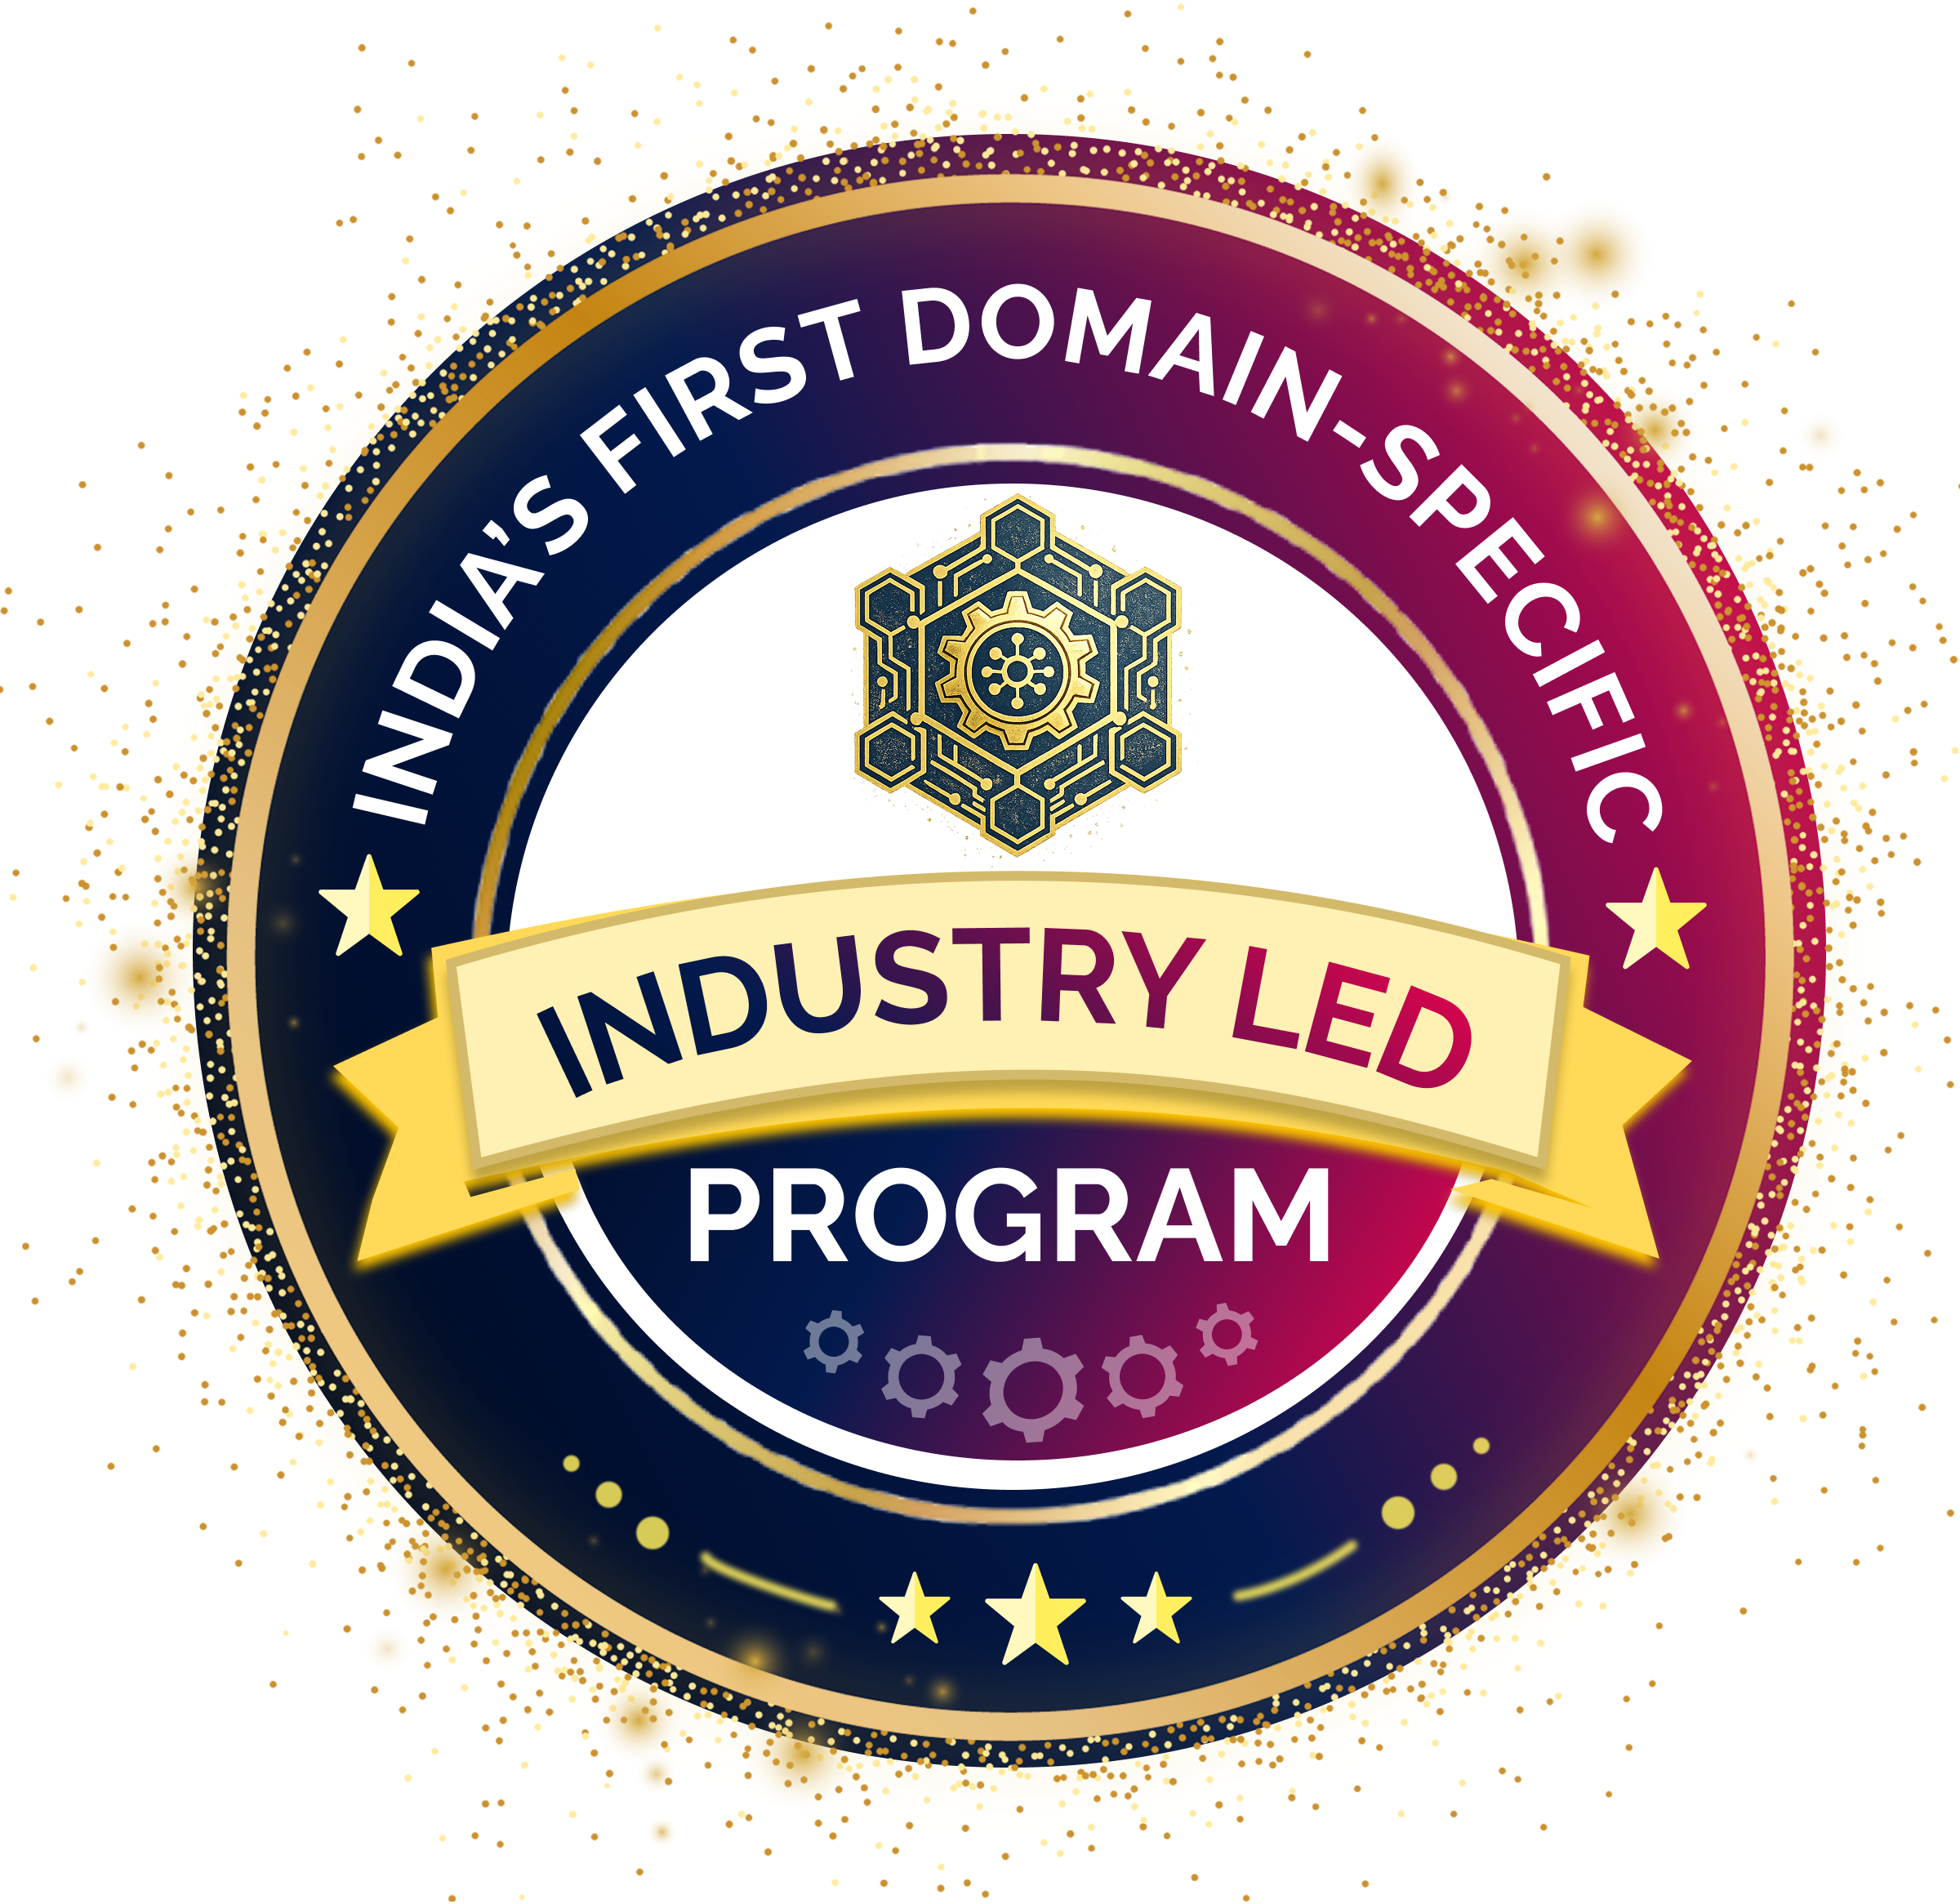
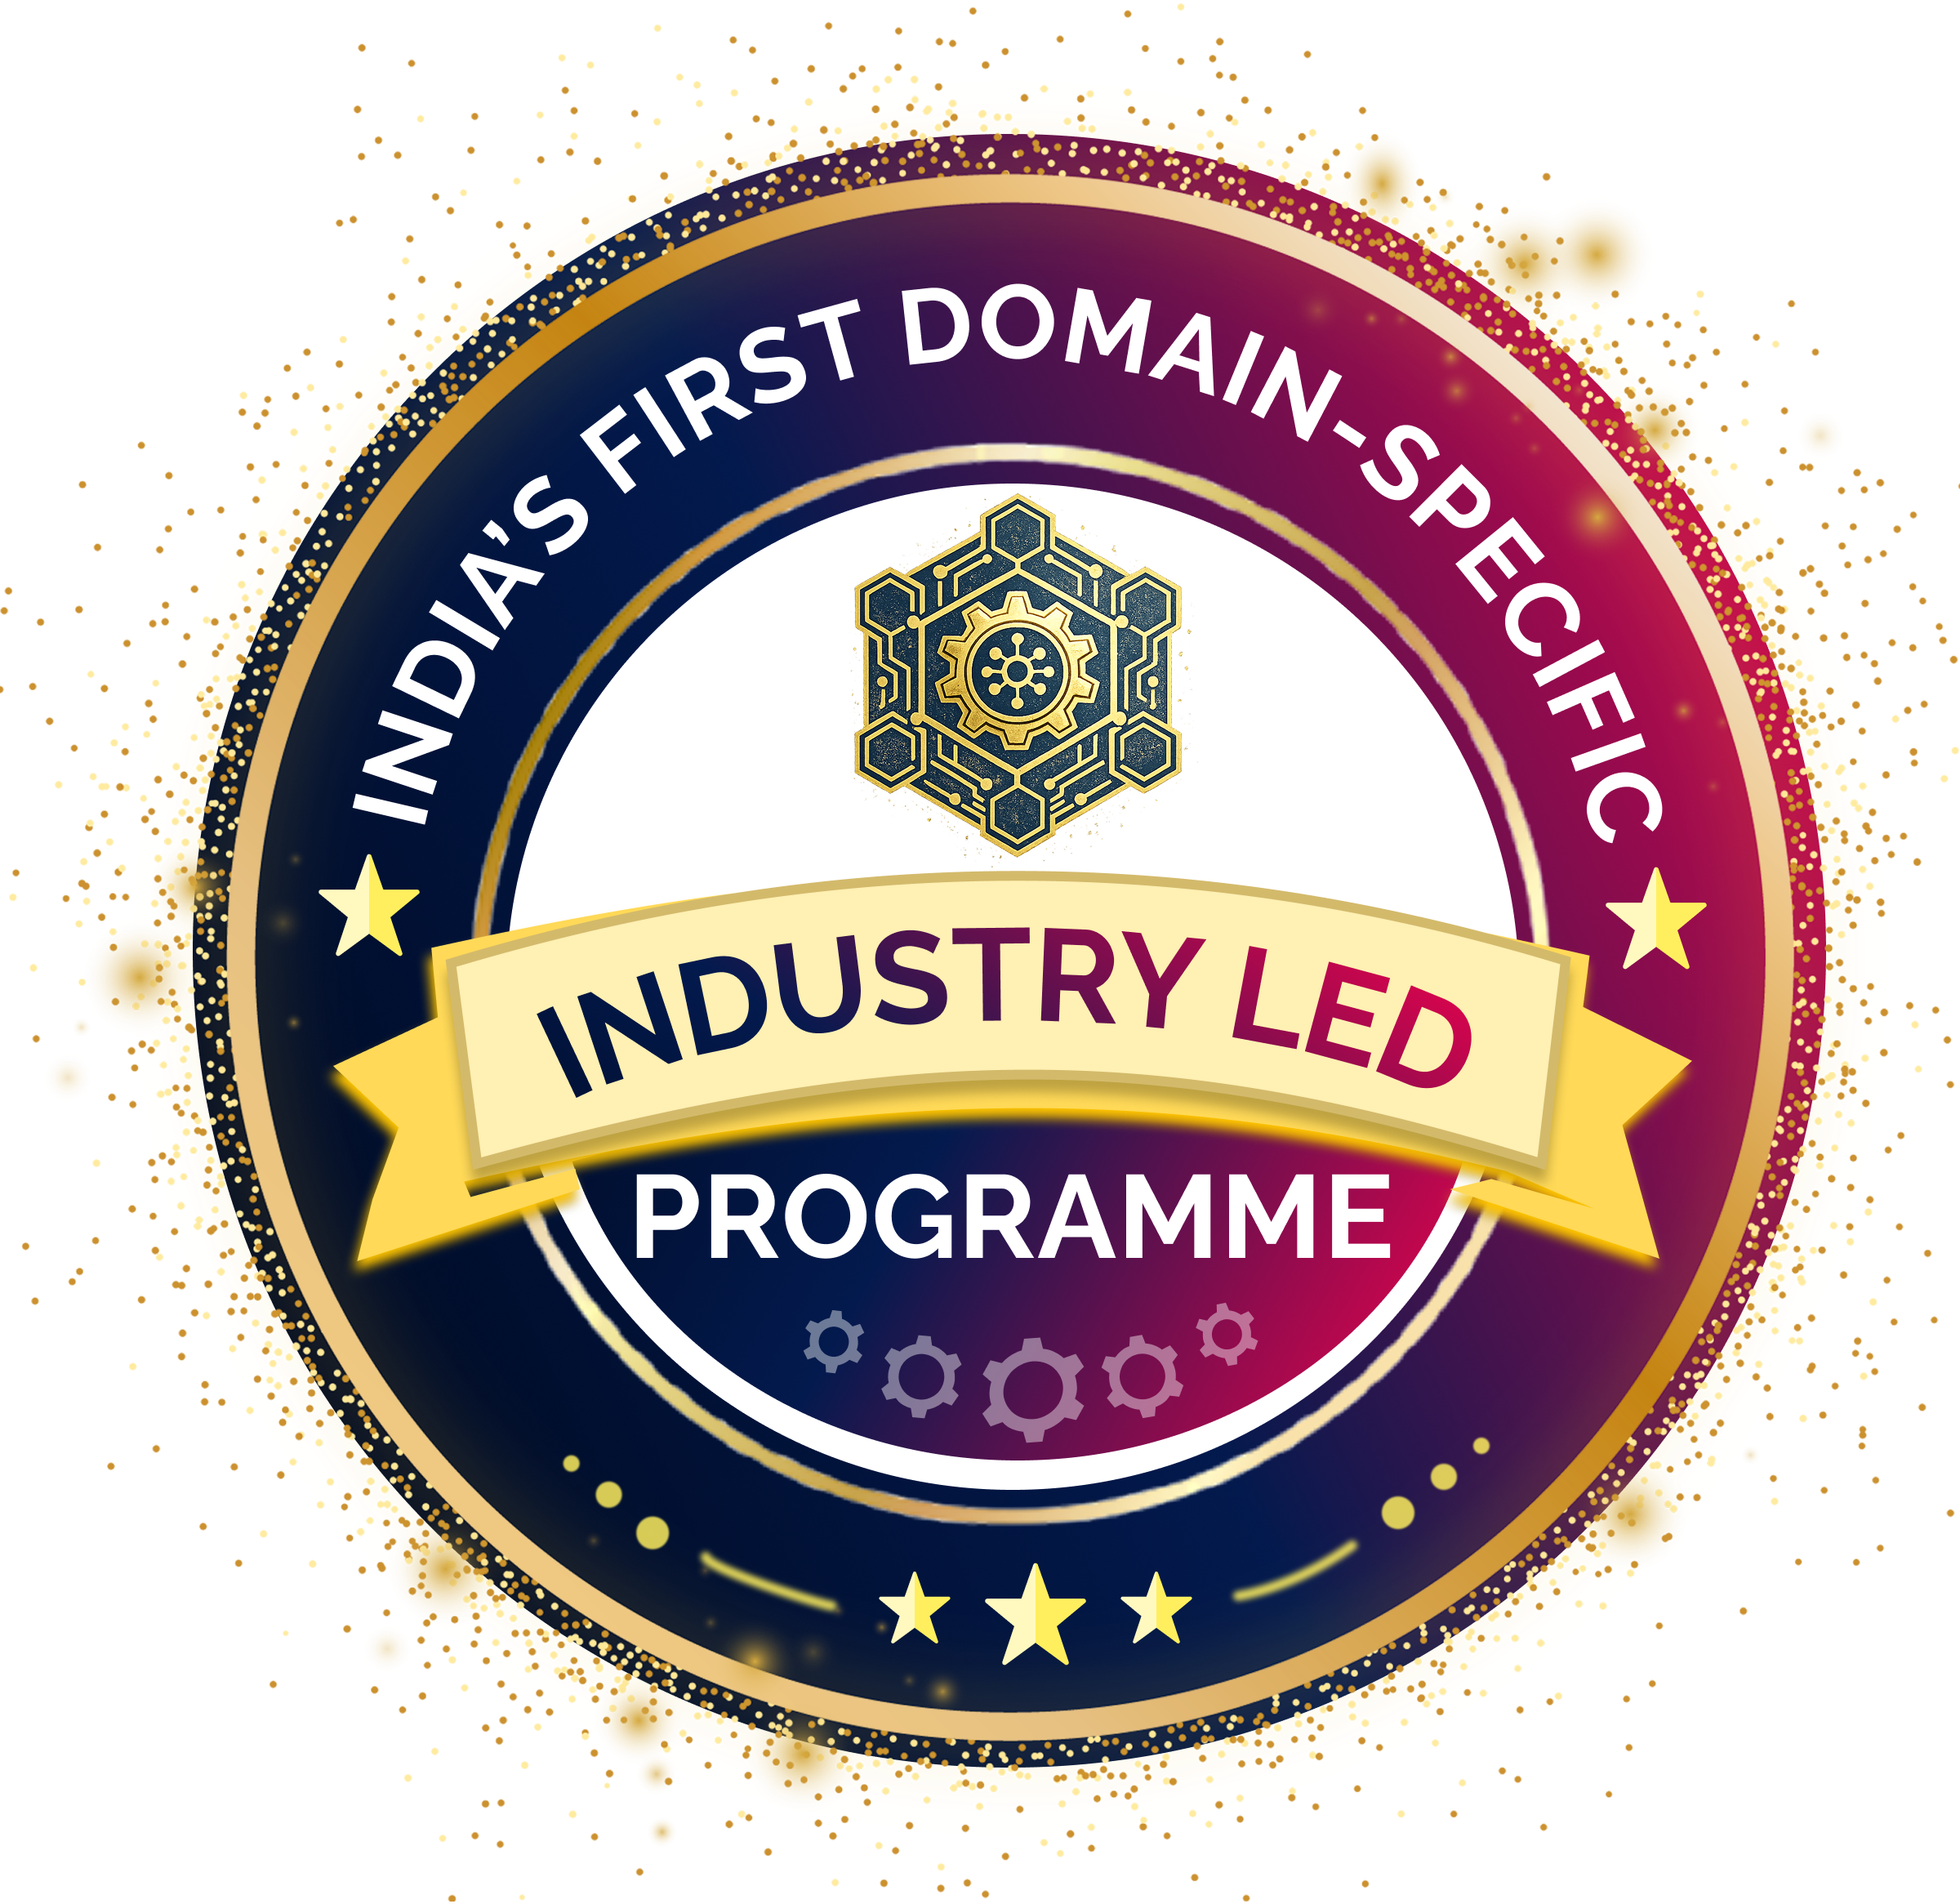
ok

Changed region(s): [[0.3125, 0.6178, 0.7188, 0.6795]]

diff --git a/src/components/Hero.jsx b/src/components/Hero.jsx
@@ -33,8 +33,23 @@ const HERO_CONTENT = {
 };
 
 const Hero = () => {
+  const pulseKeyframes = `
+    @keyframes pulseText {
+      0% {
+        text-shadow: 0 0 10px rgba(255, 255, 255, 0.7), 0 0 20px rgba(255, 255, 255, 0.7);
+      }
+      50% {
+        text-shadow: 0 0 20px rgba(255, 255, 255, 0.8), 0 0 30px rgba(255, 255, 255, 0.8);
+      }
+      100% {
+        text-shadow: 0 0 10px rgba(255, 255, 255, 0.7), 0 0 20px rgba(255, 255, 255, 0.7);
+      }
+    }
+  `;
+
   return (
     <>
+      <style>{pulseKeyframes}</style>
       {/* ═══════════════════════════════════════════
           MOBILE LAYOUT  (hidden on md and above)
       ═══════════════════════════════════════════ */}
@@ -51,10 +66,30 @@ const Hero = () => {
         {/* Content */}
         <div className="relative z-10 flex flex-col h-auto">
           {/* Navbar */}
-          <div className="flex items-center justify-between px-4 py-3 bg-[#000B2E]">
-            <img src={IUlogo} alt="IU Logo" className="h-13 object-contain" />
-            <div className="border border-white/20 bg-white/10 px-3 py-1 rounded-full text-white text-[10px] font-semibold tracking-wide">
-              {HERO_CONTENT.limitedSeats}
+          <div className="flex flex-col items-center py-3 px-4 bg-[#000B2E] w-full">
+            {/* Top Row - Logos */}
+            <div className="flex justify-between w-full items-center mb-2">
+              {/* Left Logo */}
+              <div className="flex-shrink-0">
+                <img
+                  src={IUlogo}
+                  alt="IU Logo"
+                  className="h-auto w-20"
+                />
+              </div>
+              <div className="border border-white/20 bg-white/10 px-3 py-1 rounded-full text-white text-[10px] font-semibold tracking-wide">
+                {HERO_CONTENT.limitedSeats}
+              </div>
+            </div>
+
+            {/* Center Text - Mobile */}
+            <div className="text-center w-full">
+              <h1 
+                className="text-white text-[15px] font-bold px-2 leading-tight" 
+                style={{ animation: 'pulseText 2s infinite' }}
+              >
+                SCHOOL OF ENGINEERING<br />(INDIRA UNIVERSITY)
+              </h1>
             </div>
           </div>
 
@@ -63,7 +98,7 @@ const Hero = () => {
             {/* Heading */}
             <h1 className="text-white font-bold leading-tight text-[18px] sm:text-2xl">
               {HERO_CONTENT.heading.map((line, index) => (
-                <span key={index} className="block">{line}</span>
+                <span key={index} className={`block ${index === 1 ? "text-[#1E62EC]" : "text-white"}`}>{line}</span>
               ))}
             </h1>
 
@@ -78,7 +113,7 @@ const Hero = () => {
             </p>
 
             {/* Admission tag */}
-            <div className="mt-4 inline-flex items-center self-center bg-[#C00433] text-white px-4 py-1.5 rounded-lg shadow-lg font-semibold text-xs">
+            <div className="mt-4 inline-flex items-center self-center bg-[#1E62EC] text-white px-4 py-1.5 rounded-lg shadow-lg font-semibold text-xs shadow-[0_4px_20px_rgba(30,98,236,0.3)]">
               {HERO_CONTENT.admissionTag}
             </div>
 
@@ -110,7 +145,7 @@ const Hero = () => {
                     <option value="btech-ai-ds">B.Tech (AI & Data Science)</option>
                     <option value="btech-cyber-cloud">B.Tech (Cyber Security & Cloud Technology)</option>
                   </select>
-                  <button className="w-full bg-[#E3003A] hover:bg-[#c00032] py-2 rounded-lg text-white font-bold text-[11px] tracking-wider active:scale-[0.98] transition-all">
+                  <button className="w-full bg-gradient-to-r from-[#C2163B] to-[#7B0D2B] hover:from-[#d61e47] hover:to-[#911235] py-2 rounded-lg text-white font-bold text-[11px] tracking-wider active:scale-[0.98] transition-all shadow-md">
                     Submit
                   </button>
                 </form>
@@ -118,22 +153,24 @@ const Hero = () => {
             </div>
 
             {/* Stats for Mobile (2x2 Grid) */}
-            <div className="grid grid-cols-2 gap-2 mt-4 w-full max-w-sm">
+            <div className="grid grid-cols-2 gap-3 mt-5 w-full max-w-sm border-t border-white/10 pt-4">
               {stats.map((item, index) => (
                 <div
                   key={index}
-                  className="flex items-center gap-2 p-2 rounded-xl bg-white/5 border border-white/10 backdrop-blur-sm"
+                  className="flex items-center gap-2"
                 >
-                  <img
-                    src={item.icon}
-                    alt=""
-                    className="w-6 h-6 object-contain flex-shrink-0"
-                  />
+                  <div className="flex items-center justify-center border border-[#1E62EC]/40 bg-[#1E62EC]/10 rounded-full w-8 h-8 flex-shrink-0">
+                    <img
+                      src={item.icon}
+                      alt=""
+                      className="w-4 h-4 object-contain"
+                    />
+                  </div>
                   <div className="flex flex-col text-left">
-                    <h3 className="text-[#FF0700] text-xs font-extrabold leading-none whitespace-nowrap">
+                    <h3 className="text-white text-xs font-extrabold leading-none whitespace-nowrap">
                       {item.title}
                     </h3>
-                    <p className="text-white/80 text-[8px] leading-tight mt-0.5 max-w-[100px]">
+                    <p className="text-white/70 text-[8px] leading-tight mt-0.5 max-w-[90px]">
                       {item.subtitle}
                     </p>
                   </div>
@@ -160,13 +197,28 @@ const Hero = () => {
         {/* Main Content */}
         <div className="relative z-10 min-h-screen flex flex-col">
           {/* Navbar */}
-          <div className="w-full flex items-center justify-between px-5 md:px-10 py-4 md:py-5 bg-[#000B2E]">
-            <img
-              src={IUlogo}
-              alt="IU Logo"
-              className="h-18 md:h-22 object-contain"
-            />
-            <div className="border border-white/20 bg-white/10 px-4 py-1.5 rounded-full text-white text-xs md:text-sm font-semibold">
+          <div className="w-full flex items-center justify-between px-4 md:px-8 lg:px-16 py-3 md:py-4 bg-[#000B2E]">
+            {/* LEFT LOGO */}
+            <div className="flex-shrink-0">
+              <img
+                src={IUlogo}
+                alt="IU Logo"
+                className="h-auto w-24 md:w-28 lg:w-36 xl:w-42"
+              />
+            </div>
+
+            {/* CENTER TEXT */}
+            <div className="flex-grow flex items-center justify-center text-center px-2 md:px-4">
+              <h1 
+                className="text-white text-base md:text-lg lg:text-2xl xl:text-3xl font-bold whitespace-nowrap"
+                style={{ animation: 'pulseText 2s infinite' }}
+              >
+                SCHOOL OF ENGINEERING (INDIRA UNIVERSITY)
+              </h1>
+            </div>
+
+            {/* RIGHT BUTTON/SEATS */}
+            <div className="flex-shrink-0 border border-white/20 bg-white/10 px-4 py-1.5 rounded-full text-white text-xs md:text-sm font-semibold">
               {HERO_CONTENT.limitedSeats}
             </div>
           </div>
@@ -180,7 +232,7 @@ const Hero = () => {
                 {/* Heading */}
                 <h1 className="text-white font-bold leading-tight text-[26px] sm:text-[32px] md:text-[36px] lg:text-[42px] xl:text-[48px]">
                   {HERO_CONTENT.heading.map((line, index) => (
-                    <span key={index} className="block md:whitespace-nowrap">{line}</span>
+                    <span key={index} className={`block md:whitespace-nowrap ${index === 1 ? "text-[#1E62EC]" : "text-white"}`}>{line}</span>
                   ))}
                 </h1>
 
@@ -195,27 +247,30 @@ const Hero = () => {
                 </p>
 
                 {/* Admission Tag */}
-                <p className="mt-6 text-sm sm:text-base md:text-lg bg-[#C00433] text-white px-4 py-1.5 rounded-xl inline-block font-semibold w-fit">
+                <p className="mt-6 text-sm sm:text-base md:text-lg bg-[#1E62EC] text-white px-4 py-1.5 rounded-xl inline-block font-semibold w-fit shadow-[0_4px_20px_rgba(30,98,236,0.3)]">
                   {HERO_CONTENT.admissionTag}
                 </p>
 
+
                 {/* Stats */}
-                <div className="grid grid-cols-2 xl:grid-cols-4 gap-4 mt-8 border-t border-white/10 pt-6 w-full">
+                <div className="grid grid-cols-2 xl:flex xl:flex-row items-center justify-between gap-6 mt-8 border-t border-white/10 pt-6 w-full">
                   {stats.map((item, index) => (
                     <div
                       key={index}
-                      className="flex items-center gap-3"
+                      className="flex items-center gap-3 xl:pr-6 xl:border-r xl:border-white/10 xl:last:border-none xl:flex-1"
                     >
-                      <img
-                        src={item.icon}
-                        alt=""
-                        className="w-9 h-9 lg:w-11 lg:h-11 object-contain flex-shrink-0"
-                      />
+                      <div className="flex items-center justify-center border border-[#1E62EC]/50 bg-[#1E62EC]/10 rounded-full w-10 h-10 lg:w-12 lg:h-12 flex-shrink-0">
+                        <img
+                          src={item.icon}
+                          alt=""
+                          className="w-5 h-5 lg:w-6 lg:h-6 object-contain"
+                        />
+                      </div>
                       <div className="flex flex-col text-left">
-                        <h3 className="text-[#FF0700] text-sm md:text-base lg:text-lg xl:text-xl font-extrabold leading-none whitespace-nowrap">
+                        <h3 className="text-white text-sm md:text-base lg:text-lg xl:text-xl font-extrabold leading-none whitespace-nowrap">
                           {item.title}
                         </h3>
-                        <p className="text-white/80 text-[9px] lg:text-xs leading-snug mt-1 max-w-[110px] lg:max-w-[140px]">
+                        <p className="text-white/70 text-[9px] lg:text-xs leading-snug mt-1 max-w-[110px] lg:max-w-[140px]">
                           {item.subtitle}
                         </p>
                       </div>
@@ -254,7 +309,7 @@ const Hero = () => {
                       <option value="btech-ai-ds">B.Tech (AI & Data Science)</option>
                       <option value="btech-cyber-cloud">B.Tech (Cyber Security & Cloud Technology)</option>
                     </select>
-                    <button className="w-full bg-[#E3003A] hover:bg-[#c00032] py-2.5 rounded-lg text-white font-bold text-sm tracking-wider shadow-lg active:scale-[0.98] transition-all">
+                    <button className="w-full bg-gradient-to-r from-[#C2163B] to-[#7B0D2B] hover:from-[#d61e47] hover:to-[#911235] py-2.5 rounded-lg text-white font-bold text-sm tracking-wider shadow-lg active:scale-[0.98] transition-all">
                       Submit
                     </button>
                   </form>